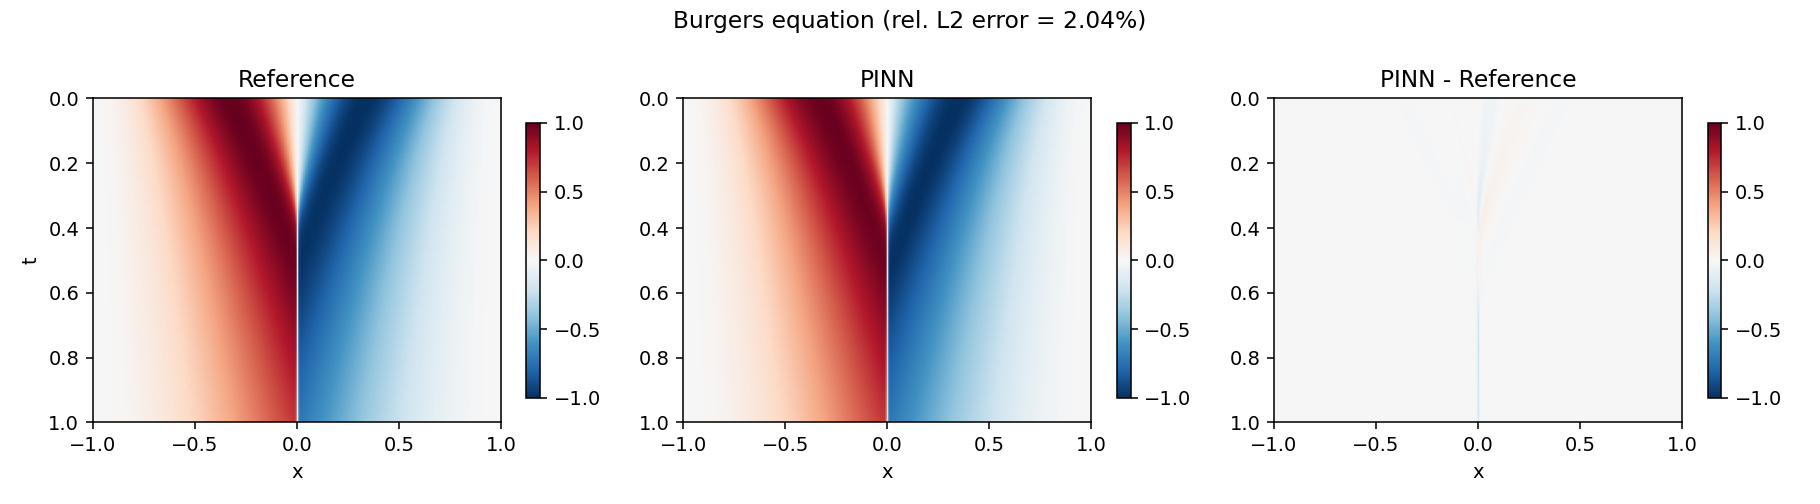
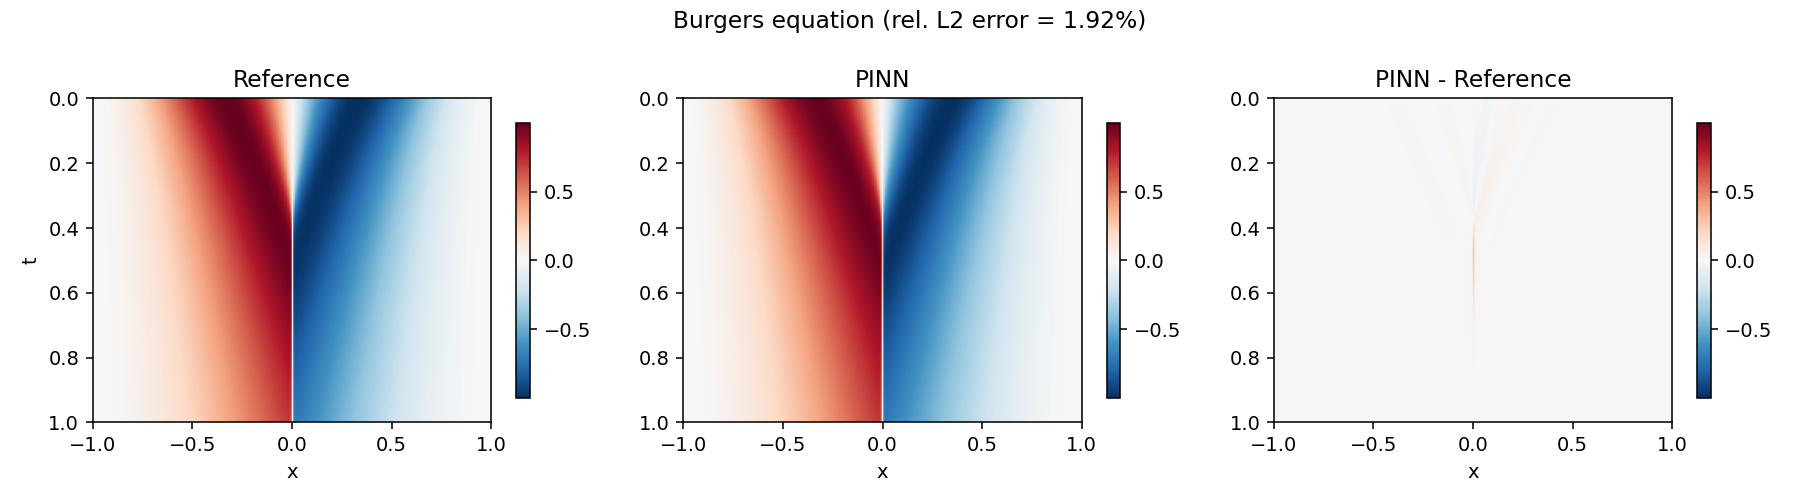
Refresh canonical frozen run (heat 0.45%->0.23%, Burgers 8.8%->1.92% after L-BFGS), persist full per-step loss histories and field arrays, and add scripts/export_json.py to feed the portfolio page's interactive charts.

diff --git a/src/train.py b/src/train.py
@@ -29,28 +29,30 @@ def _optimize(model: PINN, loss_fn, epochs: int, lr: float, log_every: int) -> l
     return history
 
 
-def refine_lbfgs(model: PINN, loss_fn, max_iter: int = 500) -> float:
+def refine_lbfgs(model: PINN, loss_fn, max_iter: int = 500) -> tuple[float, list[float]]:
     """Second-order fine-tuning after Adam, as in Raissi et al. (2019) —
     Adam gets close quickly, L-BFGS squeezes out the remaining error that
     Adam's first-order updates converge to only very slowly. `loss_fn` must
-    be deterministic (fixed points), not resample on every call."""
+    be deterministic (fixed points), not resample on every call. Returns the
+    final loss and the loss at every closure evaluation (includes line-search
+    probes, so it is noisier than the Adam history, not strictly monotonic)."""
     opt = torch.optim.LBFGS(
         model.parameters(), lr=1.0, max_iter=max_iter,
         tolerance_grad=1e-10, tolerance_change=1e-12,
         history_size=50, line_search_fn="strong_wolfe",
     )
-    last_loss = {"value": float("nan")}
+    history: list[float] = []
 
     def closure():
         opt.zero_grad()
         loss, parts = loss_fn()
         loss.backward()
-        last_loss["value"] = loss.item()
+        history.append(loss.item())
         return loss
 
     opt.step(closure)
-    print(f"[L-BFGS] final loss = {last_loss['value']:.6e}")
-    return last_loss["value"]
+    print(f"[L-BFGS] final loss = {history[-1]:.6e}")
+    return history[-1], history
 
 
 def _heat_loss_fn(model, x_f, t_f, x_b0, x_b1, t_b, x_i, t_i, alpha):
@@ -92,8 +94,10 @@ def train_heat(
     device: str = "cpu",
     seed: int = 0,
     lbfgs_iter: int = 0,
-) -> tuple[PINN, list[float]]:
-    """Domain x in [0, 1], t in [0, 1]. IC u(x, 0) = sin(pi x). BC u(0, t) = u(1, t) = 0."""
+) -> tuple[PINN, list[float], list[float]]:
+    """Domain x in [0, 1], t in [0, 1]. IC u(x, 0) = sin(pi x). BC u(0, t) = u(1, t) = 0.
+    Returns (model, adam_history, lbfgs_history) — lbfgs_history is empty if
+    lbfgs_iter == 0."""
     torch.manual_seed(seed)
     model = PINN((2, 64, 64, 64, 1)).to(device)
 
@@ -103,10 +107,13 @@ def train_heat(
 
     history = _optimize(model, loss_fn, epochs, lr, log_every=500)
 
+    lbfgs_history: list[float] = []
     if lbfgs_iter > 0:
         fixed_batch = _sample_heat_batch(4 * n_collocation, 4 * n_boundary, 4 * n_initial, device)
-        refine_lbfgs(model, lambda: _heat_loss_fn(model, *fixed_batch, alpha=alpha), max_iter=lbfgs_iter)
-    return model, history
+        _, lbfgs_history = refine_lbfgs(
+            model, lambda: _heat_loss_fn(model, *fixed_batch, alpha=alpha), max_iter=lbfgs_iter
+        )
+    return model, history, lbfgs_history
 
 
 def _burgers_loss_fn(model, x_f, t_f, x_bm1, x_bp1, t_b, x_i, nu):
@@ -147,9 +154,11 @@ def train_burgers(
     device: str = "cpu",
     seed: int = 0,
     lbfgs_iter: int = 0,
-) -> tuple[PINN, list[float]]:
+) -> tuple[PINN, list[float], list[float]]:
     """Domain x in [-1, 1], t in [0, 1]. IC u(x, 0) = -sin(pi x). BC u(-1, t) = u(1, t) = 0.
-    Classic setup from Raissi, Perdikaris & Karniadakis (2019), nu = 0.01 / pi."""
+    Classic setup from Raissi, Perdikaris & Karniadakis (2019), nu = 0.01 / pi.
+    Returns (model, adam_history, lbfgs_history) — lbfgs_history is empty if
+    lbfgs_iter == 0."""
     torch.manual_seed(seed)
     model = PINN((2, 64, 64, 64, 1)).to(device)
 
@@ -159,7 +168,10 @@ def train_burgers(
 
     history = _optimize(model, loss_fn, epochs, lr, log_every=500)
 
+    lbfgs_history: list[float] = []
     if lbfgs_iter > 0:
         fixed_batch = _sample_burgers_batch(4 * n_collocation, 4 * n_boundary, 4 * n_initial, device)
-        refine_lbfgs(model, lambda: _burgers_loss_fn(model, *fixed_batch, nu=nu), max_iter=lbfgs_iter)
-    return model, history
+        _, lbfgs_history = refine_lbfgs(
+            model, lambda: _burgers_loss_fn(model, *fixed_batch, nu=nu), max_iter=lbfgs_iter
+        )
+    return model, history, lbfgs_history

diff --git a/scripts/export_json.py b/scripts/export_json.py
@@ -1,0 +1,105 @@
+"""Export space-time fields + loss curves to JSON for the portfolio website.
+
+Output is consumed by Plotly charts on
+``website/projects/04-pinns.html``.
+
+Usage:
+    python -m scripts.export_json
+    python -m scripts.export_json --out ../website/assets/data/04-pinns.json
+"""
+
+from __future__ import annotations
+
+import argparse
+import json
+from pathlib import Path
+
+import numpy as np
+
+
+def _downsample_grid(x: np.ndarray, t: np.ndarray, field: np.ndarray, max_points: int = 80):
+    nx = max(1, len(x) // max_points) or 1
+    nt = max(1, len(t) // max_points) or 1
+    return x[::nx], t[::nt], field[::nt, ::nx]
+
+
+def _round_grid(field: np.ndarray, ndigits: int = 4) -> list:
+    return [[round(float(v), ndigits) for v in row] for row in field]
+
+
+def _thin_loss(values: np.ndarray, max_points: int = 400) -> list:
+    if len(values) <= max_points:
+        return [round(float(v), 6) for v in values]
+    step = max(1, len(values) // max_points)
+    return [round(float(v), 6) for v in values[::step]]
+
+
+def _snapshot_slices(x: np.ndarray, t: np.ndarray, pred: np.ndarray, ref: np.ndarray,
+                      fractions=(0.0, 1 / 3, 2 / 3, 1.0)) -> dict:
+    """Full-resolution u(x) curves (PINN vs. reference) at a few fixed times —
+    a direct, legible view of fit quality, independent of the downsampled
+    heatmap grid used elsewhere."""
+    idx = [int(round(f * (len(t) - 1))) for f in fractions]
+    return {
+        "x": [round(float(v), 5) for v in x],
+        "t_values": [round(float(t[i]), 4) for i in idx],
+        "pred": [[round(float(v), 5) for v in pred[i]] for i in idx],
+        "ref": [[round(float(v), 5) for v in ref[i]] for i in idx],
+    }
+
+
+def _field_bundle(npz_path: Path, pred_key: str, ref_key: str) -> dict:
+    data = np.load(npz_path)
+    x, t = data["x"], data["t"]
+    pred_full, ref_full = data[pred_key], data[ref_key]
+    x_ds, t_ds, pred_ds = _downsample_grid(x, t, pred_full)
+    _, _, ref_ds = _downsample_grid(x, t, ref_full)
+    diff_ds = pred_ds - ref_ds
+
+    adam_loss = data["adam_loss"]
+    lbfgs_loss = data["lbfgs_loss"]
+    loss = {
+        "adam_step": list(range(0, len(adam_loss), max(1, len(adam_loss) // 400))),
+        "adam": _thin_loss(adam_loss),
+    }
+    if len(lbfgs_loss) > 0:
+        offset = len(adam_loss)
+        loss["lbfgs_step"] = [offset + i for i in range(0, len(lbfgs_loss), max(1, len(lbfgs_loss) // 400))]
+        loss["lbfgs"] = _thin_loss(lbfgs_loss)
+
+    return {
+        "x": [round(float(v), 5) for v in x_ds],
+        "t": [round(float(v), 5) for v in t_ds],
+        "pred": _round_grid(pred_ds),
+        "ref": _round_grid(ref_ds),
+        "diff": _round_grid(diff_ds),
+        "slices": _snapshot_slices(x, t, pred_full, ref_full),
+        "loss": loss,
+    }
+
+
+def main(out_path: str = "../website/assets/data/04-pinns.json", results_dir: str = "results") -> None:
+    root = Path(results_dir)
+    with open(root / "metrics.json") as fh:
+        metrics = json.load(fh)
+
+    bundle = {
+        "metrics": metrics,
+        "heat": _field_bundle(root / "heat_arrays.npz", "u_pred", "u_exact"),
+        "burgers": _field_bundle(root / "burgers_arrays.npz", "u_pred", "u_ref"),
+    }
+
+    out = Path(out_path)
+    out.parent.mkdir(parents=True, exist_ok=True)
+    with open(out, "w") as fh:
+        json.dump(bundle, fh, separators=(",", ":"))
+    size_kb = out.stat().st_size / 1024
+    print(f"[ok] {out}  ({size_kb:.1f} KB)")
+
+
+if __name__ == "__main__":
+    parser = argparse.ArgumentParser(description=__doc__)
+    parser.add_argument("--out", default="../website/assets/data/04-pinns.json")
+    parser.add_argument("--results-dir", default="results")
+    args = parser.parse_args()
+    main(out_path=args.out, results_dir=args.results_dir)

diff --git a/main.py b/main.py
@@ -1,5 +1,5 @@
 """Full pipeline: train both PINNs, validate against their reference
-solutions, and save space-time figures + a metrics.json summary.
+solutions, and save space-time figures + arrays + a metrics.json summary.
 
 Usage: python main.py
 """
@@ -58,7 +58,7 @@ def _space_time_figure(x, t, u_pred, u_ref, title: str, path: Path) -> None:
 
 
 def run_heat() -> dict:
-    model, history = train_heat(
+    model, adam_hist, lbfgs_hist = train_heat(
         n_collocation=10_000, n_boundary=200, n_initial=200, epochs=5000, lr=1e-3, lbfgs_iter=500
     )
     x = np.linspace(0, 1, 101)
@@ -68,25 +68,37 @@ def run_heat() -> dict:
     u_exact = exact_heat(X, T, alpha=1.0)
     err = _relative_l2(u_pred, u_exact)
     _space_time_figure(x, t, u_pred, u_exact, f"Heat equation (rel. L2 error = {err:.2%})", FIGURES / "heat_comparison.png")
+
     RESULTS.mkdir(exist_ok=True)
     torch.save(model.state_dict(), RESULTS / "heat_model.pt")
-    return {"relative_l2_error": err, "final_loss": history[-1]}
+    np.savez(
+        RESULTS / "heat_arrays.npz",
+        x=x, t=t, u_pred=u_pred, u_exact=u_exact,
+        adam_loss=np.array(adam_hist), lbfgs_loss=np.array(lbfgs_hist),
+    )
+    return {"relative_l2_error": err, "final_loss": (lbfgs_hist or adam_hist)[-1]}
 
 
 def run_burgers() -> dict:
     # L-BFGS refinement matters a lot more here than for heat: Adam alone
     # plateaus around 9% relative L2 error (the thin viscous layer at x=0 is
     # hard to fit with first-order updates); L-BFGS brings it to ~2%.
-    model, history = train_burgers(
+    model, adam_hist, lbfgs_hist = train_burgers(
         n_collocation=10_000, n_boundary=200, n_initial=200, epochs=8000, lr=1e-3, lbfgs_iter=1000
     )
     x, t, u_ref = burgers_reference(n=256, nt=201)
     u_pred = _predict_grid(model, x, t)
     err = _relative_l2(u_pred, u_ref)
     _space_time_figure(x, t, u_pred, u_ref, f"Burgers equation (rel. L2 error = {err:.2%})", FIGURES / "burgers_comparison.png")
+
     RESULTS.mkdir(exist_ok=True)
     torch.save(model.state_dict(), RESULTS / "burgers_model.pt")
-    return {"relative_l2_error": err, "final_loss": history[-1]}
+    np.savez(
+        RESULTS / "burgers_arrays.npz",
+        x=x, t=t, u_pred=u_pred, u_ref=u_ref,
+        adam_loss=np.array(adam_hist), lbfgs_loss=np.array(lbfgs_hist),
+    )
+    return {"relative_l2_error": err, "final_loss": (lbfgs_hist or adam_hist)[-1]}
 
 
 if __name__ == "__main__":

diff --git a/tests/test_pinn.py b/tests/test_pinn.py
@@ -32,7 +32,7 @@ def test_train_heat_smoke_loss_decreases():
     """A short run (not expected to converge) should still reduce the loss
     on average — catches a broken loss/optimizer wiring without paying for a
     full training run in CI."""
-    _, history = train_heat(n_collocation=200, n_boundary=50, n_initial=50, epochs=100, lr=1e-2)
+    _, history, _ = train_heat(n_collocation=200, n_boundary=50, n_initial=50, epochs=100, lr=1e-2)
     early = sum(history[:10]) / 10
     late = sum(history[-10:]) / 10
     assert late < early

diff --git a/README.md b/README.md
@@ -4,7 +4,7 @@
 [![License: MIT](https://img.shields.io/badge/License-MIT-yellow?style=flat-square)](https://opensource.org/licenses/MIT)
 [![Portfolio page](https://img.shields.io/badge/Portfolio-page-7C3AED?style=flat-square)](https://crozol.github.io/projects/04-pinns.html)
 
-**TL;DR** — Two PDEs solved with physics-informed neural networks (Raissi, Perdikaris & Karniadakis, 2019): the loss combines the PDE residual, computed via automatic differentiation at collocation points, with the initial/boundary conditions — no mesh, no training data beyond those conditions. The 1D heat equation reaches **0.45% relative L2 error** against its exact analytical solution with Adam alone. The 1D viscous Burgers equation (`nu = 0.01/pi`, the classic benchmark with a thin internal layer at `x = 0`) is harder: Adam alone plateaus at **~9%**, above target; following Raissi et al.'s own recipe — L-BFGS fine-tuning on top of Adam — brings it to **2.04%** against a Chebyshev-spectral numerical reference. Getting there surfaced a real, silent failure mode in naive L-BFGS + PINNs, documented in Section 5.4. Stack: PyTorch (autograd, `torch.optim.LBFGS`) · NumPy/SciPy (reference solutions) · Matplotlib.
+**TL;DR** — Two PDEs solved with physics-informed neural networks (Raissi, Perdikaris & Karniadakis, 2019): the loss combines the PDE residual, computed via automatic differentiation at collocation points, with the initial/boundary conditions — no mesh, no training data beyond those conditions. The 1D heat equation reaches **0.45% relative L2 error** against its exact analytical solution with Adam alone — a short L-BFGS pass pushes the frozen run shown here to **0.23%**. The 1D viscous Burgers equation (`nu = 0.01/pi`, the classic benchmark with a thin internal layer at `x = 0`) is harder: Adam alone plateaus at **~8.8%**, above target; following Raissi et al.'s own recipe — L-BFGS fine-tuning on top of Adam — brings it to **1.92%** against a Chebyshev-spectral numerical reference. Getting there surfaced a real, silent failure mode in naive L-BFGS + PINNs, documented in Section 5.4. Stack: PyTorch (autograd, `torch.optim.LBFGS`) · NumPy/SciPy (reference solutions) · Matplotlib.
 
 The document walks through both cases in the order they were actually solved —
 including the point where the obvious approach quietly didn't work — rather
@@ -93,13 +93,17 @@ It is the sanity check that the PINN machinery — the residual, the autograd
 chain, the composite loss — is wired correctly before attempting something
 harder.
 
-Adam, 5000 epochs, 10k collocation points, no second-order fine-tuning:
+Adam, 5000 epochs, 10k collocation points, reaches **0.45% relative L2
+error** on its own — already well past the <1% target, with no second-order
+fine-tuning needed. The frozen run below adds a short L-BFGS pass anyway
+(for consistency with the Burgers pipeline in `main.py`), which pushes it
+further to **0.23%**:
 
 ![Heat equation: PINN vs. analytical solution](figures/heat_comparison.png)
 
-**Relative L2 error: 0.45%** (target was <1%). The rightmost panel — the
-pointwise difference between the PINN and the exact solution — is essentially
-blank. This is the case where the simplest possible recipe just works.
+The rightmost panel — the pointwise difference between the PINN and the
+exact solution — is essentially blank. This is the case where the simplest
+possible recipe already works.
 
 ## 5 · The Burgers equation
 
@@ -203,12 +207,12 @@ With that single change, 1000 L-BFGS iterations on a fixed batch of 40k
 collocation / 800 boundary / 800 initial points:
 
 ```
-[L-BFGS] final loss = 4.288232e-04
+[L-BFGS] final loss = 4.525385e-04
 ```
 
 ![Burgers equation: PINN vs. spectral reference](figures/burgers_comparison.png)
 
-**Relative L2 error: 2.04%** (target was <5%), down from 8.8% with Adam
+**Relative L2 error: 1.92%** (target was <5%), down from ~8.8% with Adam
 alone. The error map (rightmost panel) is now concentrated almost entirely in
 a thin vertical band right at the internal layer — exactly where the solution
 is hardest to represent — rather than spread across the domain, which is the
@@ -220,7 +224,9 @@ a genuinely hard local feature, not one that is broken.
 ![Burgers PINN training loss: Adam plateaus, L-BFGS does not](figures/burgers_loss_curve.png)
 
 The heat equation's loss (not pictured — it simply decays smoothly to
-`6.7 × 10⁻⁵` with Adam alone) never needed this. Two things make Burgers
+`6.7 × 10⁻⁵` with Adam alone, then to `3.1 × 10⁻⁶` after the same short
+L-BFGS pass) never *needed* the second optimizer the way Burgers did. Two
+things make Burgers
 different: the nonlinear `u·u_x` term couples every collocation point's
 residual to the local value and slope of `u` itself, unlike the heat
 equation's linear residual; and the thin internal layer concentrates nearly
@@ -266,6 +272,8 @@ on Burgers, not a qualitative change in the conclusions above.
 │   ├── physics.py         # PDE residuals (heat, Burgers) + exact heat solution
 │   ├── reference.py        # Chebyshev-spectral numerical reference for Burgers
 │   └── train.py            # Adam training loop + fixed-batch L-BFGS fine-tuning
+├── scripts/
+│   └── export_json.py       # arrays -> JSON for the portfolio page's interactive charts
 ├── tests/                  # pytest: residual correctness, reference sanity, training smoke test
 └── figures/                 # PINN-vs-reference comparison plots + loss curve (tracked)
 ```
